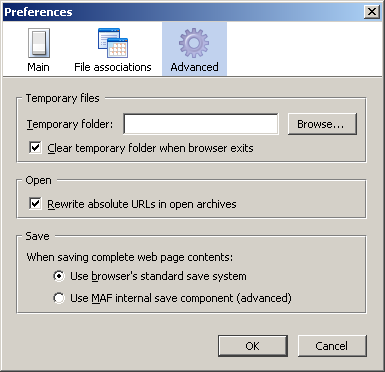
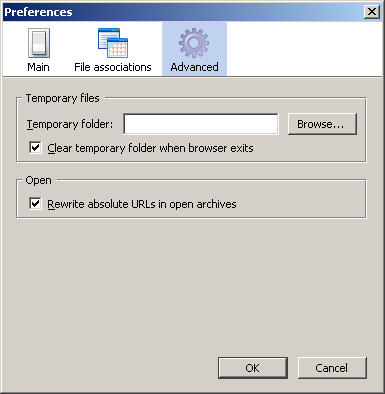
Update documentation for MAF version 0.9.0

diff --git a/www/documentation.html b/www/documentation.html
@@ -28,17 +28,37 @@
        saved resources after complete.</li>
     </ol>
   </dd>
+  <dt><a name="savecomplete"></a>When saving complete web page contents:</dt>
+  <dd>
+    <p>This preference controls which method is used to find all the web
+     resources (images, subpages, ...) that are included in the web page being
+     saved. This step is preliminary to archiving all the resources in MAFF or
+     MHTML format.</p>
+    <p>You may change this preference if the saved pages seem to be really
+     different from their original version, to achieve a better result.</p>
+    <ol>
+      <li><b>Use browser's standard save system</b> (default) - With this
+       setting, the web pages are saved by the browser. How much of the web page
+       is actually saved depends on the version of Firefox being used.</li>
+      <li><b>Use the integrated "Save Complete" extension</b> - Allows more
+       content to be saved, thanks to the integrated <b>Save Complete</b>
+       extension written by Stephen Augenstein. Note that if you also have a
+       standalone version of <b>Save Complete</b> installed, MAF will continue
+       to use the integrated one. Improvements to <b>Save Complete</b> are
+       periodically included in new versions of MAF.</li>
+      <li><b>Use MAF internal save component (advanced)</b> - This component
+       saves images linked in CSS pages but it currently does not work on pages
+       with frames.</li>
+    </ol>
+    <p>Note that the selected component will be used not only when saving
+     archives, but also when saving complete pages using the <b>Save Page
+     As</b>, <b>Web Page, complete</b> command of Firefox.</p>
+  </dd>
   <dt>Save extended metadata in MAFF archives</dt>
   <dd>
     <p>With this preference enabled, additional page information such as
      history, text zoom and scroll position is saved for each page. There is
      currently no preference to restore this saved information as yet.</p>
-  </dd>
-  <dt>Show a message box when completing a single page archival</dt>
-  <dd>
-    <p>With this preference enabled, an alert box is displayed each time a
-     single page is saved in an archive. This is not applicable if multiple
-     tabs are being saved in an archive at once.</p>
   </dd>
 </dl>
 
@@ -81,25 +101,6 @@
      as they finish loading in tabs. The processing would replace absolute links
      to resources in the page with local resources in the archive (if possible).
      This would allow users to browse linked pages in an archive seamlessly.</p>
-  </dd>
-  <dt>When saving complete web page contents:</dt>
-  <dd>
-    <p>This preference controls which method is used to find all the web
-     resources (images, subpages, ...) that are included in the web page being
-     saved. This step is preliminary to archiving all the resources in MAFF or
-     MHTML format.</p>
-    <p>You may change this preference if the saved pages seem to be really
-     different from their original version, to achieve a better result.</p>
-    <ol>
-      <li><b>Use browser's standard save system</b> (default) - With this
-       setting, the web pages are saved in the same way as when using the
-       <b>Save Page As</b>, <b>Web Page, complete</b> option of Firefox. How
-       much of the web page is actually saved depends on the version of Firefox
-       being used.</li>
-      <li><b>Use MAF internal save component (advanced)</b> - This component
-       saves images linked in CSS pages but it currently does not work on pages
-       with frames.</li>
-    </ol>
   </dd>
 </dl>
 
